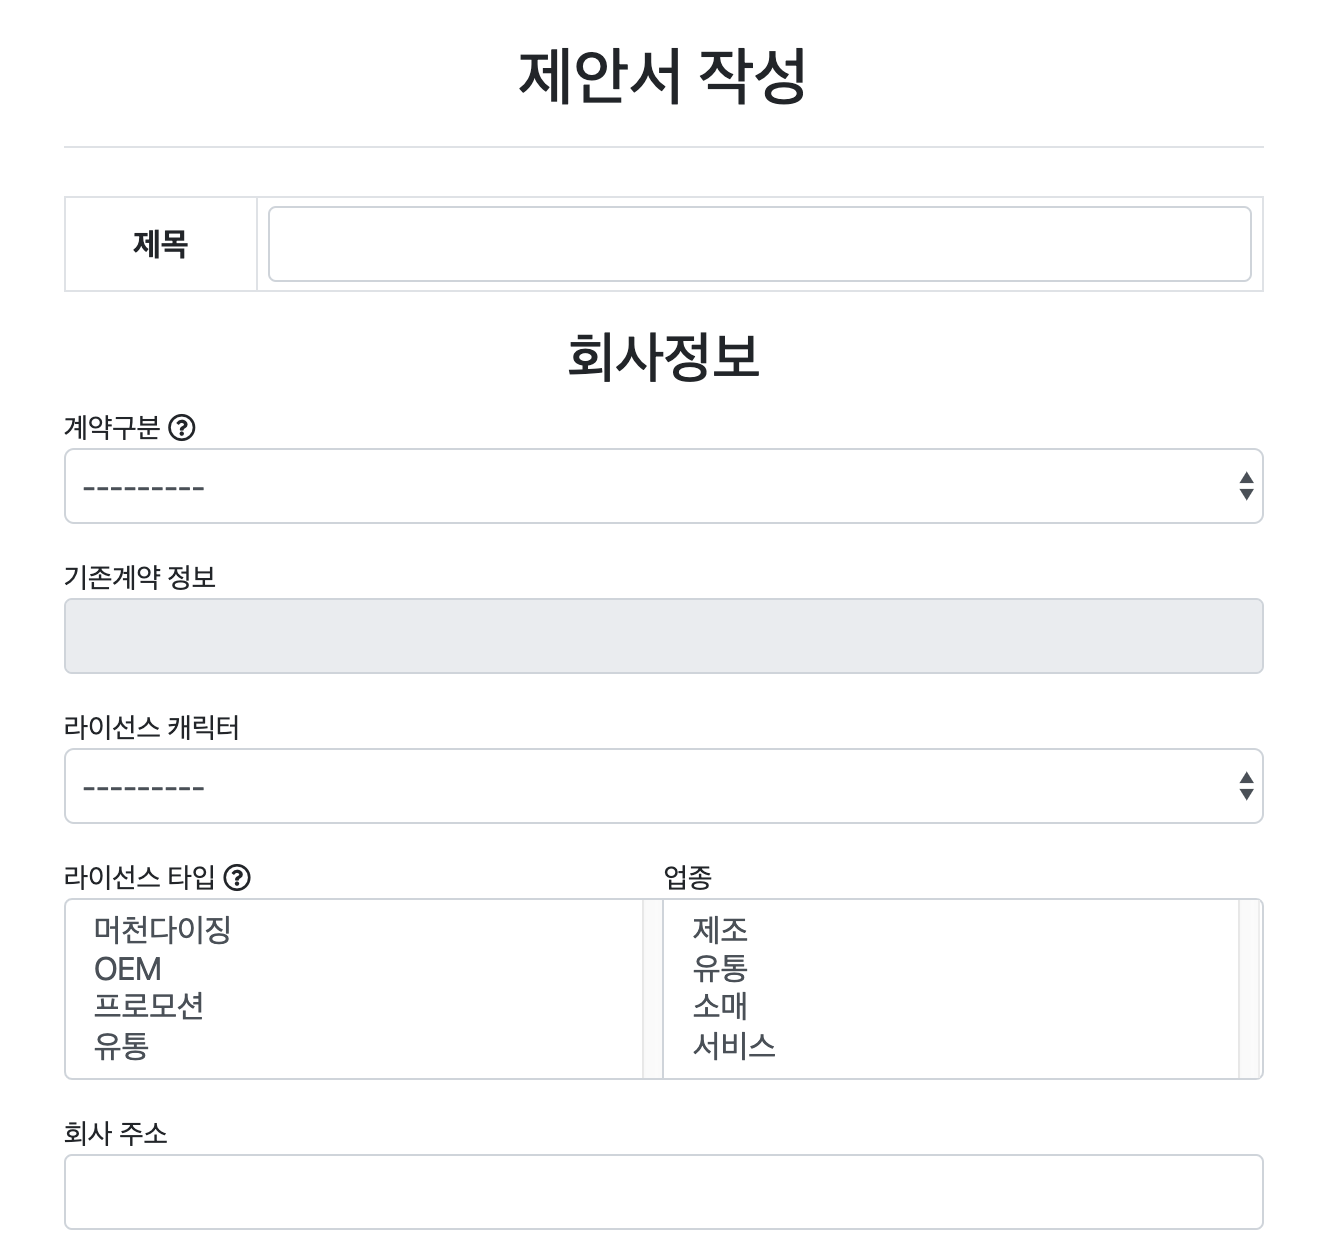
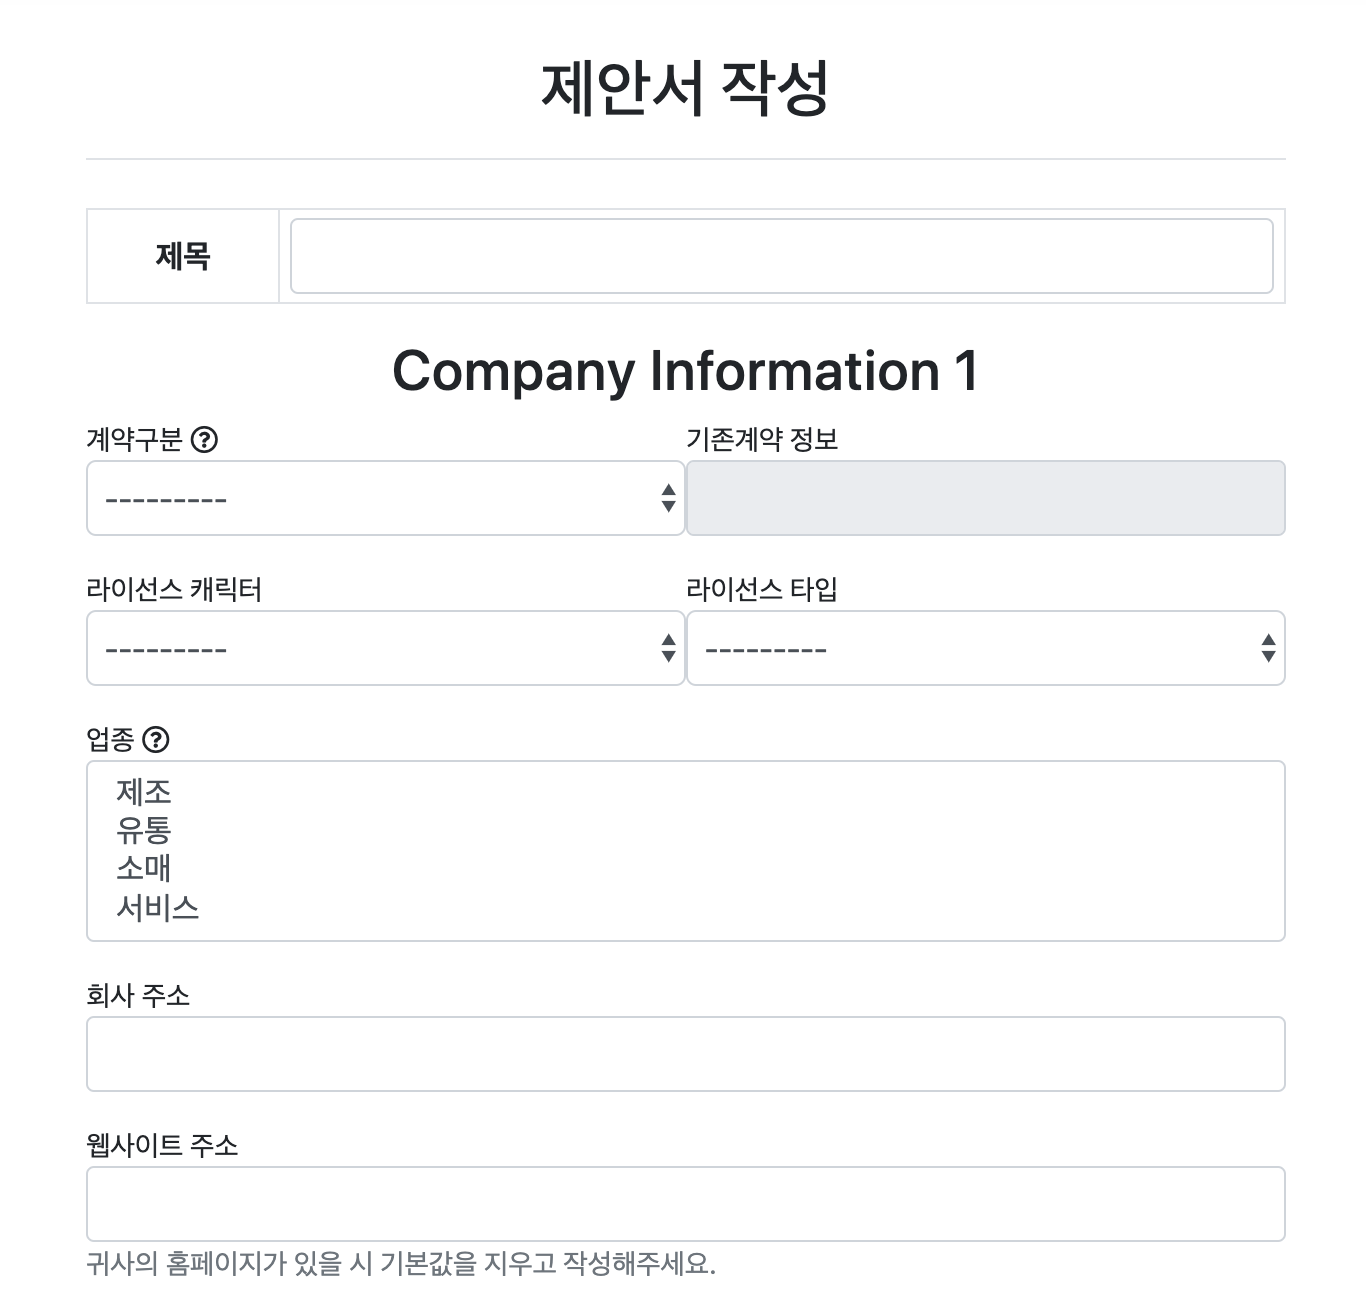
Modify for new proposal format

diff --git a/_site/Write-Proposal/index.html b/_site/Write-Proposal/index.html
@@ -118,13 +118,28 @@
     </ul>
   </li>
   <li>
-    <p>위에서 <strong>제안서 작성</strong>을 들어가시면 아래와 같은 화면을 보실 수 있습니다.</p>
+    <p>위에서 <strong>제안서 작성</strong>을 들어가시면 제안서 작성과 관련하여 동의를 구하는 페이지가 나타납니다.</p>
+
+    <p><img src="/images/write-proposal/proposal-confirm.png" alt="" /></p>
+    <ul>
+      <li>모든 내용을 확인하신 후 <code class="language-plaintext highlighter-rouge">1번</code>에 있는 체크박스를 클릭합니다.</li>
+      <li><code class="language-plaintext highlighter-rouge">2번</code>버튼을 눌러 제안서 작성을 시작합니다.</li>
+    </ul>
+  </li>
+  <li>
+    <p>아래와 같이 제안서 작성 페이지가 나타납니다.</p>
 
     <p><img src="/images/write-proposal/proposal-2.png" alt="" /></p>
     <ul>
-      <li>제안서 작성 페이지는 총 <strong>5개의 주제</strong>로 나눠져 있습니다.
+      <li>제안서 작성 페이지는 총 <strong>7개의 주제</strong>로 나눠져 있습니다.
         <ul>
-          <li><code class="language-plaintext highlighter-rouge">회사정보, 희망상품정보, 홍보방안, 유통채널, 계약조건제안</code></li>
+          <li><code class="language-plaintext highlighter-rouge">Company Information</code>: 회사 정보 기술</li>
+          <li><code class="language-plaintext highlighter-rouge">Licensing Proposal Information</code>: 희망 상품 정보 기술</li>
+          <li><code class="language-plaintext highlighter-rouge">Marketing Plan</code>: 홍보 및 마케팅 방안 기술</li>
+          <li><code class="language-plaintext highlighter-rouge">Sales Channels</code>: 유통채널 기술</li>
+          <li><code class="language-plaintext highlighter-rouge">Royalty Program and Plan</code>: 계약조건의 제안 기술</li>
+          <li><code class="language-plaintext highlighter-rouge">Production Plan</code>: 제품별 세부 제작 계획 기술</li>
+          <li><code class="language-plaintext highlighter-rouge">Production Design &amp; Concept</code>: 제작 제품의 예시 또는 디자인 파일 업로드</li>
         </ul>
       </li>
       <li>각 페이지에서 다른 페이지로 버튼을 통해 이동이 가능합니다.

diff --git a/_site/Write-Proposal-Detail/index.html b/_site/Write-Proposal-Detail/index.html
@@ -96,21 +96,12 @@
     <p><img src="/images/write-proposal-detail/detail-1.png" alt="" /></p>
   </li>
   <li>
-    <p><strong>다중 선택 Type 1</strong>: 다수의 항목 선택이 가능합니다.</p>
+    <p><strong>다중 선택</strong>: 다수의 항목 선택이 가능합니다.</p>
 
     <p><img src="/images/write-proposal-detail/detail-2.png" alt="" /></p>
     <ul>
-      <li><strong>선택된 항목</strong>이 <u>회색</u>으로 나타납니다. (아래는 <code class="language-plaintext highlighter-rouge">머천다이징</code>과 <code class="language-plaintext highlighter-rouge">프로모션</code>이 선택된 상황입니다.)
+      <li><strong>선택된 항목</strong>이 <u>회색</u>으로 나타납니다. (아래는 <code class="language-plaintext highlighter-rouge">제조</code>와 <code class="language-plaintext highlighter-rouge">소매</code>가 선택된 상황입니다.)
   <img src="/images/write-proposal-detail/detail-3.png" alt="" /></li>
-    </ul>
-  </li>
-  <li>
-    <p><strong>다중 선택 Type 2</strong>: 다수의 항목 선택이 가능합니다.</p>
-
-    <p><img src="/images/write-proposal-detail/detail-4.png" alt="" /></p>
-    <ul>
-      <li><strong>선택된 항목</strong>이 <u>회색</u>으로 나타납니다. (아래는 <code class="language-plaintext highlighter-rouge">양철</code>, <code class="language-plaintext highlighter-rouge">가죽</code>, <code class="language-plaintext highlighter-rouge">라이크라</code>, <code class="language-plaintext highlighter-rouge">빳빳한천</code>이 선택된 상황입니다.)
-  <img src="/images/write-proposal-detail/detail-5.png" alt="" /></li>
     </ul>
   </li>
 </ul>

diff --git a/_site/Signup/index.html b/_site/Signup/index.html
@@ -115,6 +115,8 @@
     <p>등록이 완료되면, <strong>코드</strong>가 하나 발급됩니다. 이후에 <u>담당자 계정을 만들 때 필요</u>하므로, <strong>꼭 따로 보관</strong>해주시기 바랍니다.</p>
 
     <p><img src="/images/signup/company-5.png" alt="" /></p>
+
+    <p>*위 코드가 <strong>외부에 노출되지 않도록 각별히 주의 부탁드립니다.</strong></p>
   </li>
 </ol>
 
@@ -144,7 +146,7 @@
         <p><img src="/images/signup/email-confirm.png" alt="" /></p>
       </li>
       <li>
-        <p><code class="language-plaintext highlighter-rouge">회사 코드</code> 입력칸에 <u>회사 등록하면서 부여받은 코드</u>를 입력한 후 <strong>확인하기</strong> 버튼을 눌러주세요. 혹시 코드를 분실하셨을경우 <a href="mailto:support@soyoucorp.com">라이선시 운영팀에 문의</a>해주세요.</p>
+        <p><code class="language-plaintext highlighter-rouge">회사 코드</code> 입력칸에 <u>회사 등록하면서 부여받은 코드</u>를 입력한 후 <strong>확인하기</strong> 버튼을 눌러주세요. 혹시 코드를 분실하셨을경우 <a href="mailto:support@soyoucorp.com">라이선스 운영팀에 문의</a>해주세요.</p>
       </li>
     </ul>
   </li>

diff --git a/_posts/2020-2-21-Write-Proposal.md b/_posts/2020-2-21-Write-Proposal.md
@@ -35,11 +35,23 @@ title: (처음 시작하기) 2. 제안서 작성하기
         - **제목**을 클릭하면 제안서를 이어서 작성할 수 있습니다.
         - **삭제** 버튼을 누르면 임시 문서를 삭제할 수 있습니다.
 
-4. 위에서 **제안서 작성**을 들어가시면 아래와 같은 화면을 보실 수 있습니다.
+4. 위에서 **제안서 작성**을 들어가시면 제안서 작성과 관련하여 동의를 구하는 페이지가 나타납니다.
+
+    ![](/images/write-proposal/proposal-confirm.png)
+    - 모든 내용을 확인하신 후 `1번`에 있는 체크박스를 클릭합니다.
+    - `2번`버튼을 눌러 제안서 작성을 시작합니다.
+
+5. 아래와 같이 제안서 작성 페이지가 나타납니다.
     
     ![](/images/write-proposal/proposal-2.png)
-    - 제안서 작성 페이지는 총 **5개의 주제**로 나눠져 있습니다. 
-        - `회사정보, 희망상품정보, 홍보방안, 유통채널, 계약조건제안`
+    - 제안서 작성 페이지는 총 **7개의 주제**로 나눠져 있습니다. 
+        - `Company Information`: 회사 정보 기술
+        - `Licensing Proposal Information`: 희망 상품 정보 기술
+        - `Marketing Plan`: 홍보 및 마케팅 방안 기술
+        - `Sales Channels`: 유통채널 기술
+        - `Royalty Program and Plan`: 계약조건의 제안 기술
+        - `Production Plan`: 제품별 세부 제작 계획 기술
+        - `Production Design & Concept`: 제작 제품의 예시 또는 디자인 파일 업로드
     - 각 페이지에서 다른 페이지로 버튼을 통해 이동이 가능합니다.
         ![](/images/write-proposal/proposal-3.png)
     - **위처럼 다른 페이지로 이동하면 현 페이지의 내용은 자동 저장됩니다.**
@@ -47,7 +59,7 @@ title: (처음 시작하기) 2. 제안서 작성하기
         ![](/images/write-proposal/proposal-8.png)
     - 제안서 폼 관련 가이드는 [여기]({{site.baseurl}}/Write-Proposal-detail)서 확인할 수 있습니다.
 
-5. 모든 페이지를 작성한 후 마지막 페이지에서 **제출** 버튼을 누르면 확인 메시지가 나타납니다.
+6. 모든 페이지를 작성한 후 마지막 페이지에서 **제출** 버튼을 누르면 확인 메시지가 나타납니다.
 
     ![](/images/write-proposal/proposal-4.png)
     ![](/images/write-proposal/proposal-5.png)

diff --git a/_posts/2020-2-20-Signup.md b/_posts/2020-2-20-Signup.md
@@ -41,6 +41,8 @@ title: (처음 시작하기) 1. 회원가입하기
 
     ![](/images/signup/company-5.png)
 
+    *위 코드가 **외부에 노출되지 않도록 각별히 주의 부탁드립니다.**
+
 ## 담당자 계정 만들기
 1. 홈페이지에 들어가 **회원가입**을 클릭합니다.
 
@@ -58,5 +60,5 @@ title: (처음 시작하기) 1. 회원가입하기
     - `이메일` 입력칸에 이메일 주소를 입력 후, **인증 메일 보내기** 버튼을 눌러주세요. 인증 메일에 들어가 **메일 인증** 버튼을 눌러주세요.
 
         ![](/images/signup/email-confirm.png)
-    - `회사 코드` 입력칸에 <u>회사 등록하면서 부여받은 코드</u>를 입력한 후 **확인하기** 버튼을 눌러주세요. 혹시 코드를 분실하셨을경우 [라이선시 운영팀에 문의](mailto:support@soyoucorp.com)해주세요.
+    - `회사 코드` 입력칸에 <u>회사 등록하면서 부여받은 코드</u>를 입력한 후 **확인하기** 버튼을 눌러주세요. 혹시 코드를 분실하셨을경우 [라이선스 운영팀에 문의](mailto:support@soyoucorp.com)해주세요.
 

diff --git a/_posts/2020-2-22-Write-Proposal-Detail.md b/_posts/2020-2-22-Write-Proposal-Detail.md
@@ -23,17 +23,11 @@ title: (처음 시작하기) 2-1. 제안서 폼 이해하기
 
     ![](/images/write-proposal-detail/detail-1.png)
 
-- **다중 선택 Type 1**: 다수의 항목 선택이 가능합니다.
+- **다중 선택**: 다수의 항목 선택이 가능합니다.
 
     ![](/images/write-proposal-detail/detail-2.png)
-    - **선택된 항목**이 <u>회색</u>으로 나타납니다. (아래는 `머천다이징`과 `프로모션`이 선택된 상황입니다.)
+    - **선택된 항목**이 <u>회색</u>으로 나타납니다. (아래는 `제조`와 `소매`가 선택된 상황입니다.)
     ![](/images/write-proposal-detail/detail-3.png)
-
-- **다중 선택 Type 2**: 다수의 항목 선택이 가능합니다.
-
-    ![](/images/write-proposal-detail/detail-4.png)
-    - **선택된 항목**이 <u>회색</u>으로 나타납니다. (아래는 `양철`, `가죽`, `라이크라`, `빳빳한천`이 선택된 상황입니다.)
-    ![](/images/write-proposal-detail/detail-5.png)
 
 ## 문자 입력 항목
 - **단문 텍스트**: 한 줄로 간단하게 텍스트 작성이 가능합니다.
